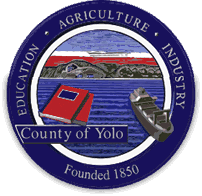
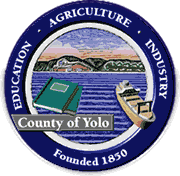
Tune new graphics

diff --git a/diazotheme/yoloelections/diazo_resources/static/main.css b/diazotheme/yoloelections/diazo_resources/static/main.css
@@ -16,8 +16,8 @@ img {
 }
 
 #portal-logo {
-    width: 40%;
-    margin: 1.875em 0 1.375em 2.5%;
+    width: 37%;
+    margin: 2.2em 0px 1.375em 2%;
     float: left;
 }
 #portal-logo img {
@@ -25,12 +25,13 @@ img {
 }
 #recorder_banner {
     float: right;
-    margin-right: 2%;
+    margin-right: 2.5%;
     margin-top: -0.2em;
-    max-width: 40%;
+    max-width: 37%;
+    clear: right;
 }
 #portal-searchbox {
-    margin: 1.2em 5% 1.2em 0;
+    margin: 1.2em 2.5% 1.2em 0;
 }
 #LSResult {
     margin: -0.2em 0 0 -7em;

diff --git a/diazotheme/yoloelections/diazo_resources/index.html b/diazotheme/yoloelections/diazo_resources/index.html
@@ -24,7 +24,7 @@
           SEARCHBOX
       </div>
 
-      <a id="portal-logo" title="Site" accesskey="1" href="#"><img src="static/yoloelections.png" alt="Site" title="Site"></a>
+      <a id="portal-logo" title="Site" accesskey="1" href="#"><img src="static/logo.png" alt="Site" title="Site"></a>
 
       <img id="recorder_banner" src="static/freddieoakley.png" alt="Site" title="Site">
 
